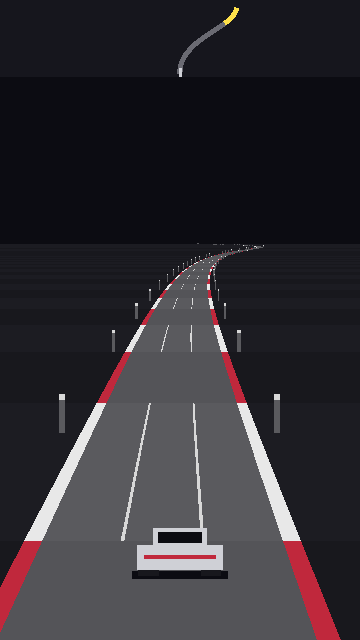
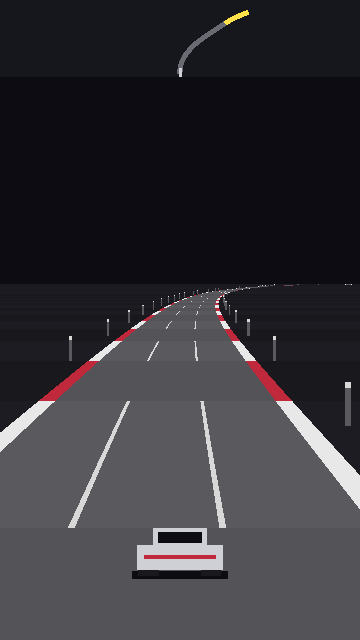
T20: wider road, lower camera, map off by default, irregular test-twisty sides
Author's playtest 2026-11-19. Road halfWidth 400->600, camera height 1000->650,
horizon 0.375->0.44, ribbon map off unless ?map=1 (map-curve forces it on),
test-twisty side sequence replaced. Baselines regenerated.

Known red: tests/sim/track_build.test.ts 'all three classes appear on both sides'
(new sequence has no left easy corner) - left for the director.

diff --git a/tests/render/projection.test.ts b/tests/render/projection.test.ts
@@ -74,8 +74,8 @@ describe('P2 monotonic projection', () => {
     }
   });
   it('last line is within 5 px below the horizon (real config)', () => {
-    // f = 180/tan(40deg) = 214.5; d0 = 214.5*1000/400 = 536.3
-    // n=300: dz = 536.3 + 300*200 = 60536; y-horizonY = 214.5*1000/60536 = 3.54 px
+    // f = 180/tan(40deg) = 214.5; d0 = 214.5*650/358.4 = 389.0
+    // n=300: dz = 389.0 + 300*200 = 60389; y-horizonY = 214.5*650/60389 = 2.31 px
     const p = run(makeStraightTrack(50), 0, 0);
     const last = p.y[p.count - 1]! - horizonYReal;
     expect(last).toBeGreaterThan(0);
@@ -90,11 +90,11 @@ describe('P2 monotonic projection', () => {
 
 describe('P3 frac = 0 exact values', () => {
   it('y_0 = H and w_0 = halfWidth*(H-horizonY)/height (real config)', () => {
-    // w_0 = 400*(640-240)/1000 = 160
+    // w_0 = 600*(640-281.6)/650 = 330.8308 (author's playtest 2026-11-19: road 1.5x, camera lower)
     const p = run(makeStraightTrack(50), 5, 0);
     near(p.y[0]!, CAM.screenHeight, 1e-3);
     near(p.w[0]!, (ROAD.halfWidth * (CAM.screenHeight - horizonYReal)) / CAM.height, 1e-3);
-    near(p.w[0]!, 160, 1e-3);
+    near(p.w[0]!, 330.8308, 1e-3);
   });
   it('inline config hand values', () => {
     // dz_n = 200 + 100n; scale_n = 100/dz_n; y = 50 + scale*100; w = scale*40

diff --git a/tests/sim/track_build.test.ts b/tests/sim/track_build.test.ts
@@ -114,9 +114,10 @@ describe('T10 test-twisty data', () => {
     expect(Math.min(best, n)).toBeLessThanOrEqual(90);
   });
 
-  it('sides alternate between neighbours incl. last -> first', () => {
-    const s = tw.sections;
-    for (let i = 0; i < s.length; i++) expect(s[i]!.side).toBe(-s[(i + 1) % s.length]!.side);
+  it('side sequence is the irregular one from the author playtest 2026-11-19', () => {
+    expect(tw.sections.map((x) => x.side)).toEqual([
+      1, 1, -1, 1, -1, -1, -1, 1, 1, -1, 1, 1, -1, -1, 1, -1, 1, 1,
+    ]);
   });
 
   it('all three classes appear on both sides', () => {

diff --git a/src/app/debug.ts b/src/app/debug.ts
@@ -7,7 +7,7 @@ export interface GameParams {
   frames: number | null;
   ticks: number | null;
   hud: boolean;
-  map: boolean; // ribbonMap on unless ?map=0
+  map: boolean; // ribbonMap off unless ?map=1
 }
 
 export interface RendererStats {
@@ -62,7 +62,7 @@ export function parseParams(search: string): GameParams {
     frames: parseCount(q.get('frames')),
     ticks: parseCount(q.get('ticks')),
     hud: q.get('hud') === '1',
-    map: q.get('map') !== '0',
+    map: q.get('map') === '1',
   };
 }
 

diff --git a/src/app/main.ts b/src/app/main.ts
@@ -111,7 +111,8 @@ const ribbon = new RibbonMapMesh(
   paletteConfig,
   ribbonThresholds(curveClasses),
 );
-ribbon.enabled = ribbonMapConfig.enabled && params.map;
+// Off by default (author's playtest 2026-11-19); ?map=1 or the map-curve screenshot turns it on.
+ribbon.enabled = ribbonMapConfig.enabled && (params.map || mapScenario !== null);
 scene.add(ribbon.mesh);
 const frameStats = new FrameStats(FRAME_STATS_WINDOW);
 const hud = params.hud ? new FrameHud(document.body) : null;

diff --git a/docs/balance.md b/docs/balance.md
@@ -32,3 +32,8 @@
 | 2026-11-18 | `cars/base.json`: `offroadMul` | 0.99 | 0.97 | вместе с R15b: при 0.98–0.99 novice снова успевал за average, при 0.96 обочина снова работает как быстрый тормоз (novice быстрее); 0.97 — единственное значение на сетке, где проходят порядок времён и возврат ≤ 1.5 с при `hard` 4.5 | гейт: novice-not-faster +1.5%, offroad-recovery 1.23 с |
 | 2026-11-18 | `tracks/test-twisty.json`: секции 2 (hard R) и 13 (hard L), `hold` | 120 и 90 | 330 и 330 | длинные hard (hold 5.5 с, вся секция 6.5 с на vmax): по внутренней кромке на vmax не проходятся, expert обязан тормозить; остальные три hard короткие, «проходимые по кромке»; круг на vmax 51 → 58.5 с | expert: торможение 0 → 6.1% времени, min скорость на длинных hard 0.89; разрыв expert/average 11.5% → 12.5% |
 | 2026-11-18 | `tunables.json`: `car.offroadMul` диапазон 0.9…1 → 0.8…1; новые `car.offroadGrip` 0.5…40, `car.offroadSteerMul` 0…1; флаг `hypotheses.H10_offroad` A/B; `hypotheses.json`: `H10_offroad` "B" | — | стартовые | R15b в dev-панели; флаг информационный, вариант задают числа (A = `offroadGrip` = `grip`, `offroadSteerMul` = 1) | тесты `tests/dev` |
+| 2026-11-19 | `road.json`: `halfWidth` | 400 | 600 | плейтест автора 2026-11-19: дорога и полосы в полтора раза шире; единицы симуляции (x в полуширинах) не менялись | скриншоты `straight`, `curve-left`, `curve-right`, `map-curve` (новые эталоны) |
+| 2026-11-19 | `camera.json`: `height` | 1000 | 650 | плейтест автора 2026-11-19: камера ниже — больше ощущения скорости | ширина дороги внизу кадра `w0` = 600·(640−281.6)/650 = 330.8 px при половине экрана 180: каждая кромка за экраном на 151 px (42% ширины); на уровне низа машины (y = 576) — 272 px, за экраном 92 px (25.5%) |
+| 2026-11-19 | `camera.json`: `horizon` | 0.375 | 0.44 | плейтест автора 2026-11-19: камера смотрит больше вперёд; горизонт y = 281.6 px из 640 (доля от верха экрана), `d0` ≈ 389 > `segmentLength` | скриншот `straight` |
+| 2026-11-19 | `tunables.json`: `camera.height` диапазон | 700…1600 | 650…1600 | плейтест автора 2026-11-19: новое значение 650 должно входить в диапазон; ниже 650 при FOV 100 и горизонте 0.25 `d0` < `segmentLength` (тест углов диапазона) | тесты `tests/dev` |
+| 2026-11-19 | `tracks/test-twisty.json`: `side` всех 18 секций | строго L/R по очереди (1, −1, 1, …) | 1, 1, −1, 1, −1, −1, −1, 1, 1, −1, 1, 1, −1, −1, 1, −1, 1, 1 | плейтест автора 2026-11-19: чередование слишком предсказуемое; классы и длины секций не менялись; прямые вставки не сделаны — формат секций не поддерживает прямую | `npm run bot && npm run gate`: novice 70.91 / average 69.33 / expert 60.66 с, вердикт CONDITIONAL (average-saturation 0.01) |
